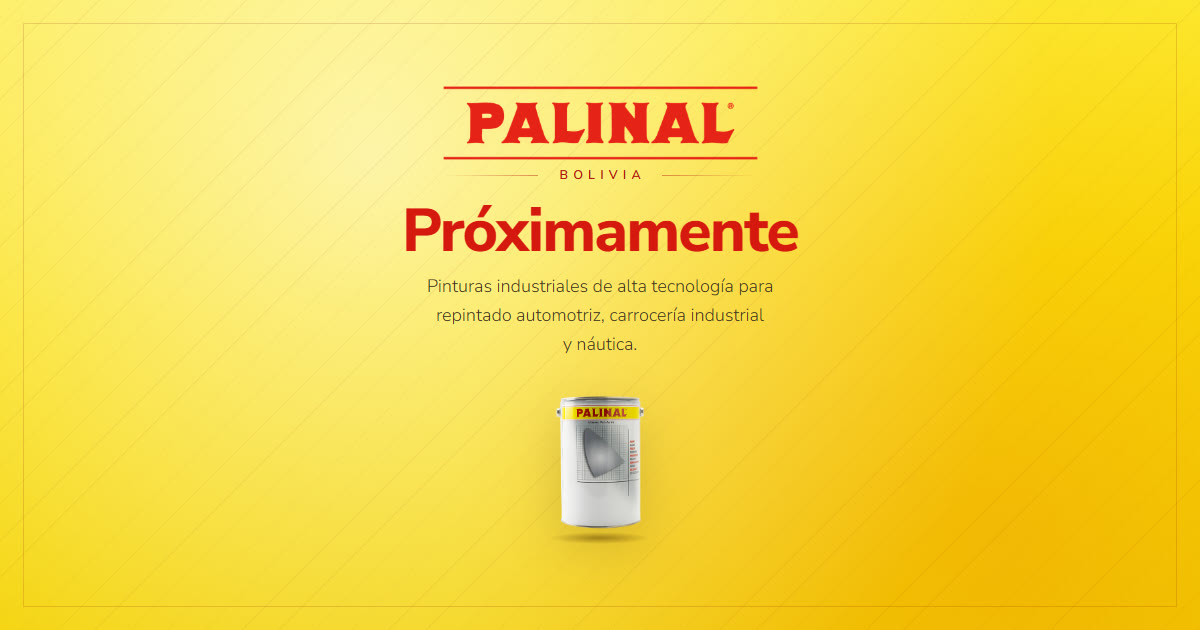
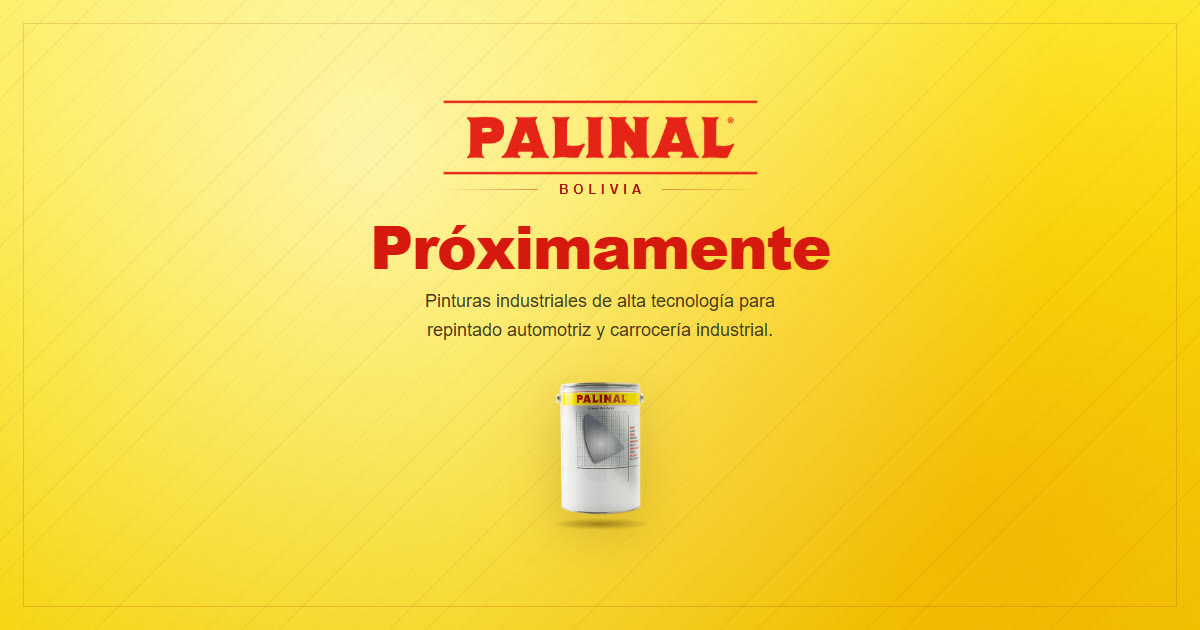
fix: align product scope with Bolivia market

diff --git a/index.html b/index.html
@@ -10,7 +10,7 @@
     <title>Palinal Bolivia — Próximamente</title>
     <meta
       name="description"
-      content="Pinturas industriales de alta tecnología para repintado automotriz, carrocería industrial y náutica. Palinal Bolivia, próximamente."
+      content="Pinturas industriales de alta tecnología para repintado automotriz y carrocería industrial. Palinal Bolivia, próximamente."
     />
     <meta name="theme-color" content="#fbdd07" />
     <meta name="color-scheme" content="light" />
@@ -37,7 +37,7 @@
     <meta property="og:title" content="Palinal Bolivia — Próximamente" />
     <meta
       property="og:description"
-      content="Pinturas industriales de alta tecnología para repintado automotriz, carrocería industrial y náutica."
+      content="Pinturas industriales de alta tecnología para repintado automotriz y carrocería industrial."
     />
     <meta property="og:url" content="https://palinal.bo/" />
     <meta
@@ -57,7 +57,7 @@
     <meta name="twitter:title" content="Palinal Bolivia — Próximamente" />
     <meta
       name="twitter:description"
-      content="Pinturas industriales de alta tecnología para repintado automotriz, carrocería industrial y náutica."
+      content="Pinturas industriales de alta tecnología para repintado automotriz y carrocería industrial."
     />
     <meta
       name="twitter:image"
@@ -94,8 +94,8 @@
         <div class="message">
           <h1 id="page-title">Próximamente</h1>
           <p>
-            Pinturas industriales de alta tecnología para repintado automotriz,
-            carrocería industrial y náutica.
+            Pinturas industriales de alta tecnología para repintado automotriz y
+            carrocería industrial.
           </p>
         </div>
 

diff --git a/specs/site/spec.md b/specs/site/spec.md
@@ -16,7 +16,7 @@ La referencia archivada concreta esta especificación. No debe reinterpretarse c
 
 - Marca principal: **Palinal Bolivia**.
 - Mensaje principal: **Próximamente**.
-- Descripción: **Pinturas industriales de alta tecnología para repintado automotriz, carrocería industrial y náutica.**
+- Descripción: **Pinturas industriales de alta tecnología para repintado automotriz y carrocería industrial.**
 - Producto: lata de pintura Palinal.
 - Identificación institucional: **Inversiones y Desarrollos 3D (ID3D), distribuidor oficial de Palinal en Bolivia.**
 - Contacto: **sebastian@palinal.bo**.
